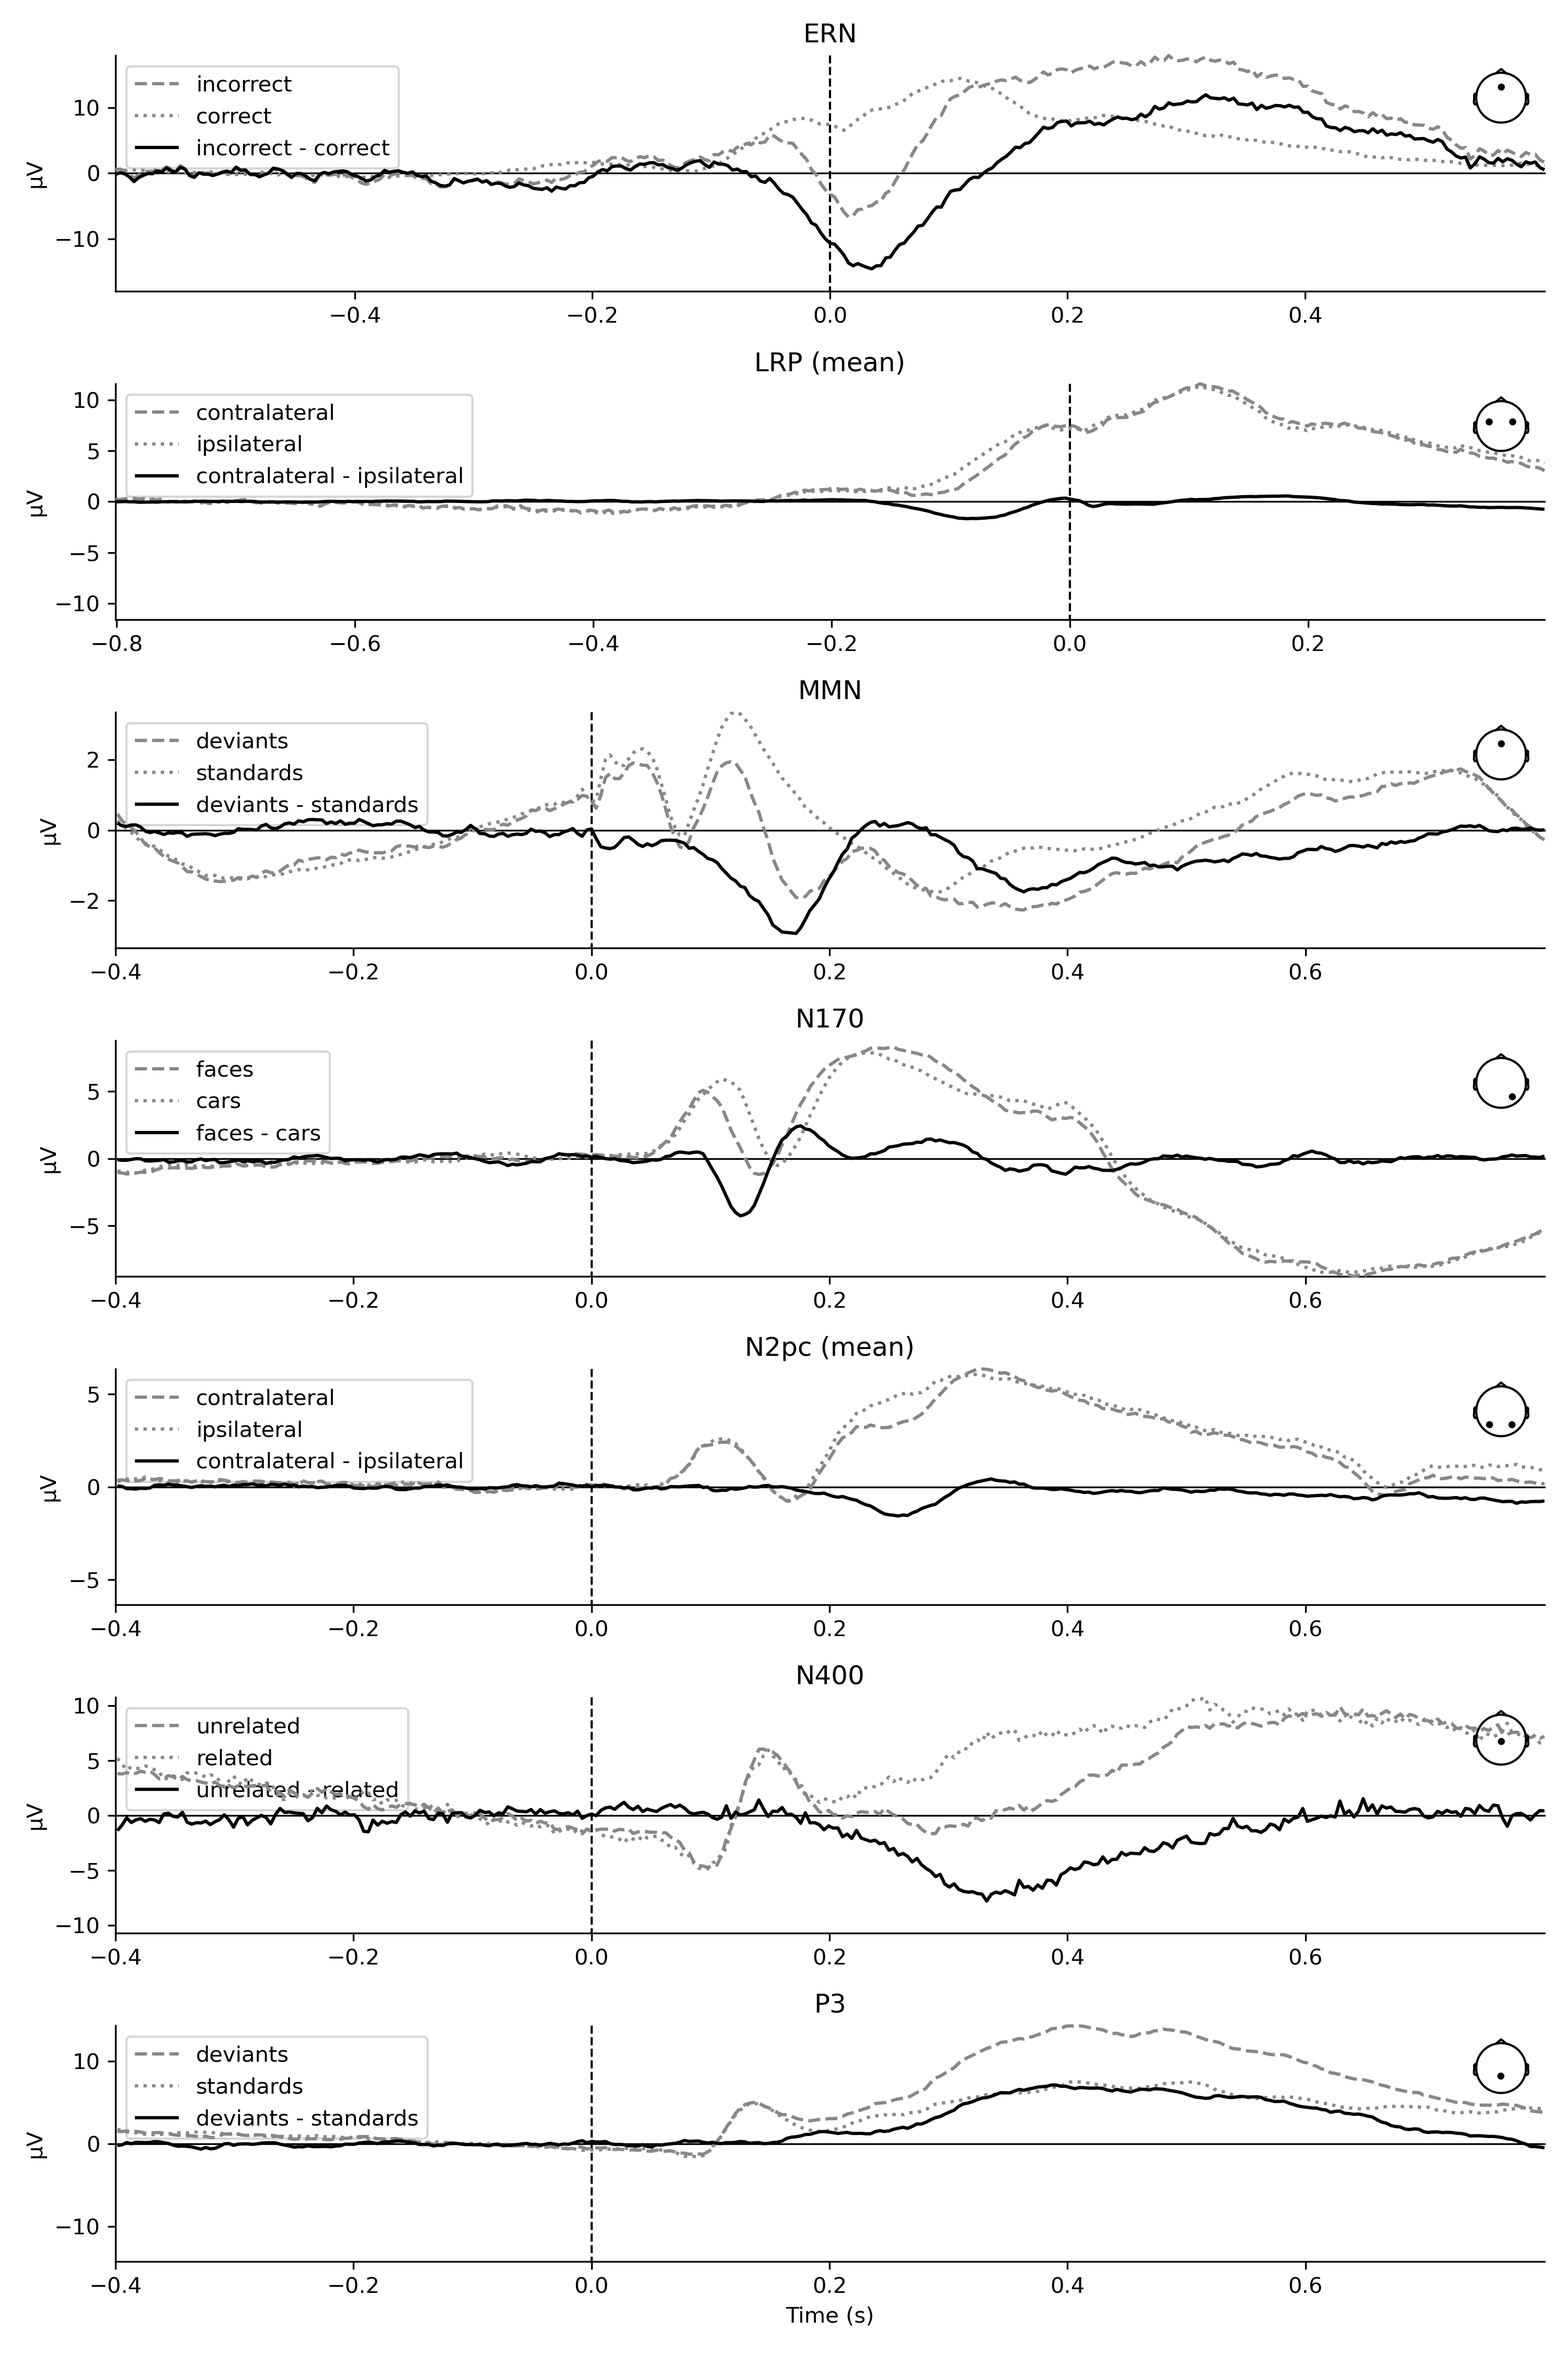
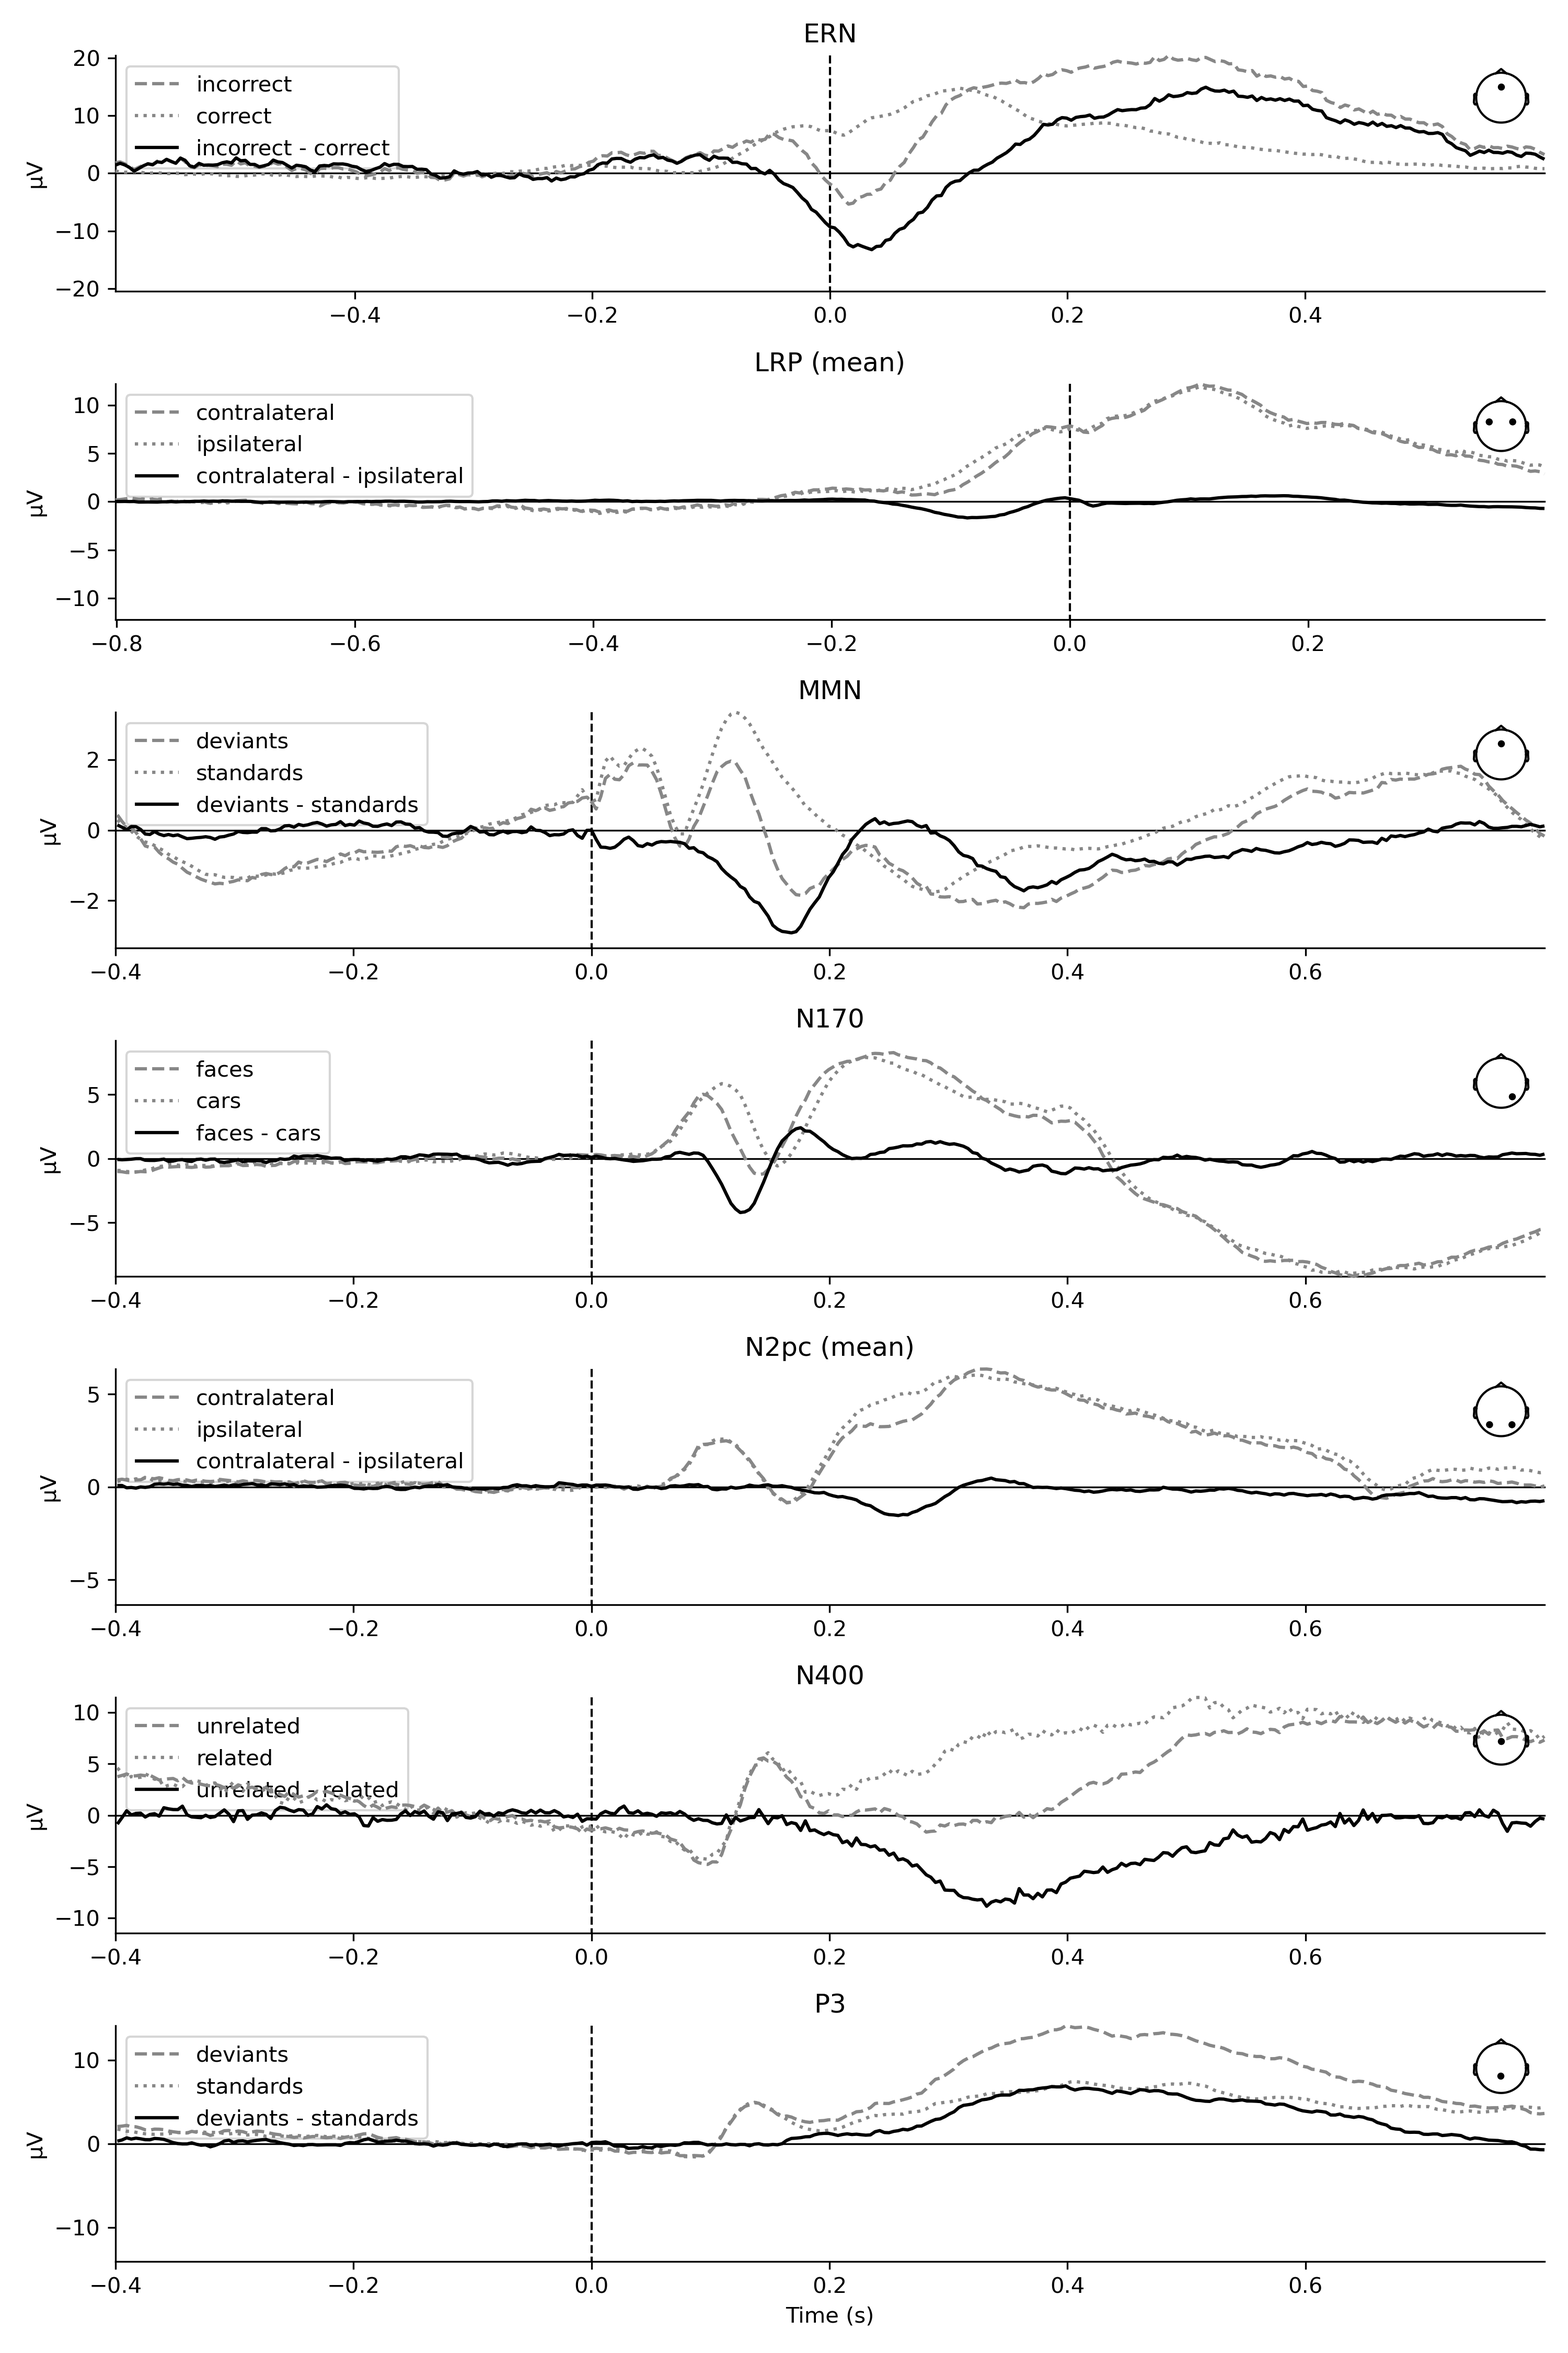
added new ordered evoked plot

diff --git a/src/config.py b/src/config.py
@@ -248,7 +248,7 @@ luck_forking_paths = { # these are not really the same, but some steps are compa
         'N400': "['P9', 'P10']_0.1_None_ica_ica_200ms_offset_True",
         'P3': "['P9', 'P10']_0.1_None_ica_ica_200ms_offset_True",
         'MIPDB': "['P9', 'P10']_0.1_None_ica_ica_200ms_offset_True",
-        }
+        } # TODO change this to the new order
 
 luck_forking_paths_clean = { # without special characters
         'ERN': "P9P10_0.1_None_ica_ica_200ms_offset_True",
@@ -260,6 +260,20 @@ luck_forking_paths_clean = { # without special characters
         'P3': "P9P10_0.1_None_ica_ica_200ms_offset_True",
         'MIPDB': "P9P10_0.1_None_ica_ica_200ms_offset_True",
         }
+
+luck_forking_paths_clean2 = { # without special characters
+        'ERN': "ica_ica_None_0.1_P9P10_200ms_offset_True",
+        'LRP': "ica_ica_None_0.1_P9P10_200ms_offset_True",
+        'MMN': "ica_ica_None_0.1_P9P10_200ms_offset_True",
+        'N170': "ica_ica_None_0.1_average_200ms_offset_True",
+        'N2pc': "ica_ica_None_0.1_P9P10_200ms_offset_True",
+        'N400': "ica_ica_None_0.1_P9P10_200ms_offset_True",
+        'P3': "ica_ica_None_0.1_P9P10_200ms_offset_True",
+        'MIPDB': "ica_ica_None_0.1_P9P10_200ms_offset_True",
+        }
+
+
+
 
 # difference waveforms, define the partners of subtraction
 # not use atm, as more easy to compute in the evoked.py script

diff --git a/src/3-evoked.py b/src/3-evoked.py
@@ -13,7 +13,7 @@ sys.path.append(base_dir)
 alt_dir = "/ptmp/kroma/m4d/"
 
 #from src.utils import CharacteristicsManager, ica_eog_emg, autorej, summarize_artifact_interpolation
-from src.config import subjects, experiments, channels_of_interest, luck_forking_paths, contrasts, contrasts_combined
+from src.config import subjects, experiments, channels_of_interest, luck_forking_paths_clean2, contrasts, contrasts_combined
 
 plot_dir = os.path.join(base_dir, "plots")
 model_dir = os.path.join(base_dir, "models")
@@ -33,7 +33,7 @@ group_results = {}
 for experiment in experiments:
     group_results[experiment] = {}
 
-    forking_path = luck_forking_paths[experiment] 
+    forking_path = luck_forking_paths_clean2[experiment] 
     contrast = contrasts[experiment]
     channels = channels_of_interest[experiment]
     assert len(contrast) == len(channels), "Number of contrasts and channels must be the same!"
